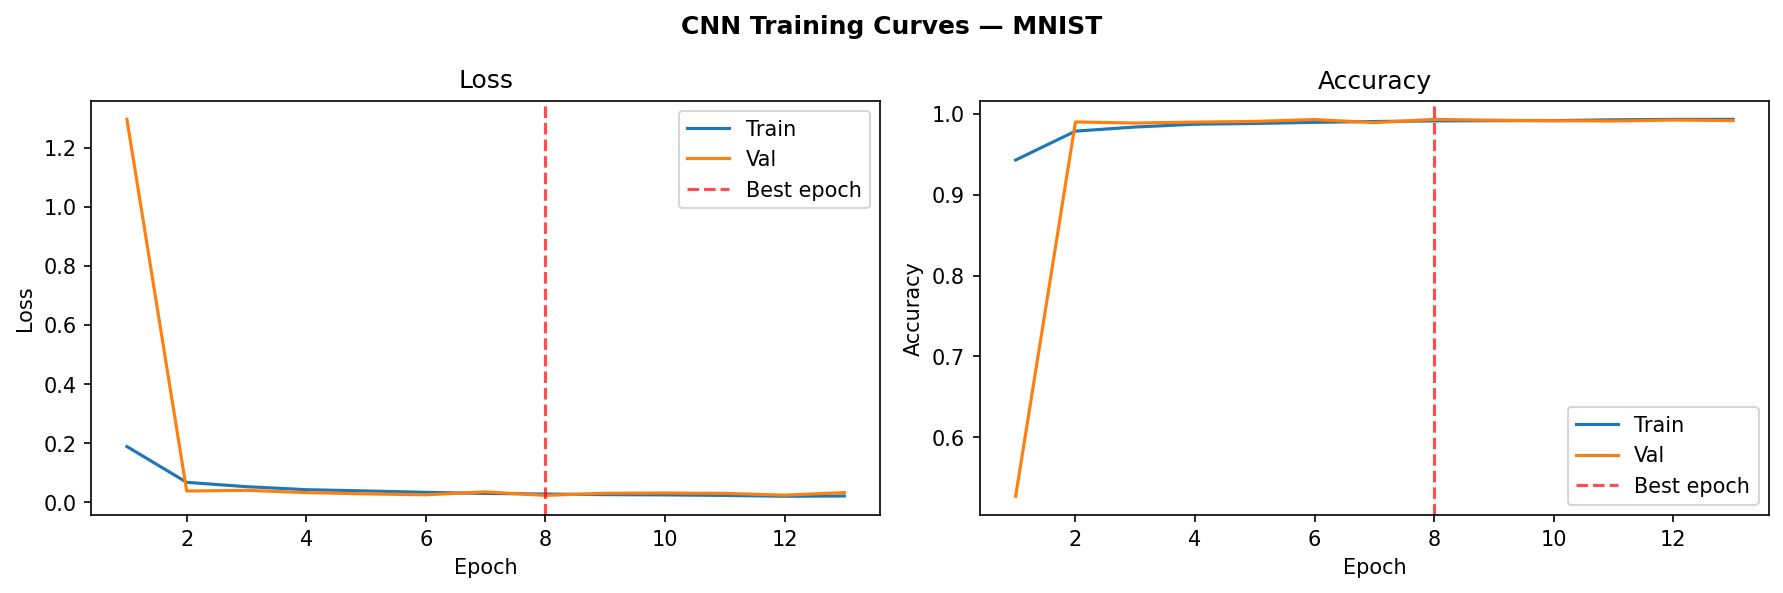
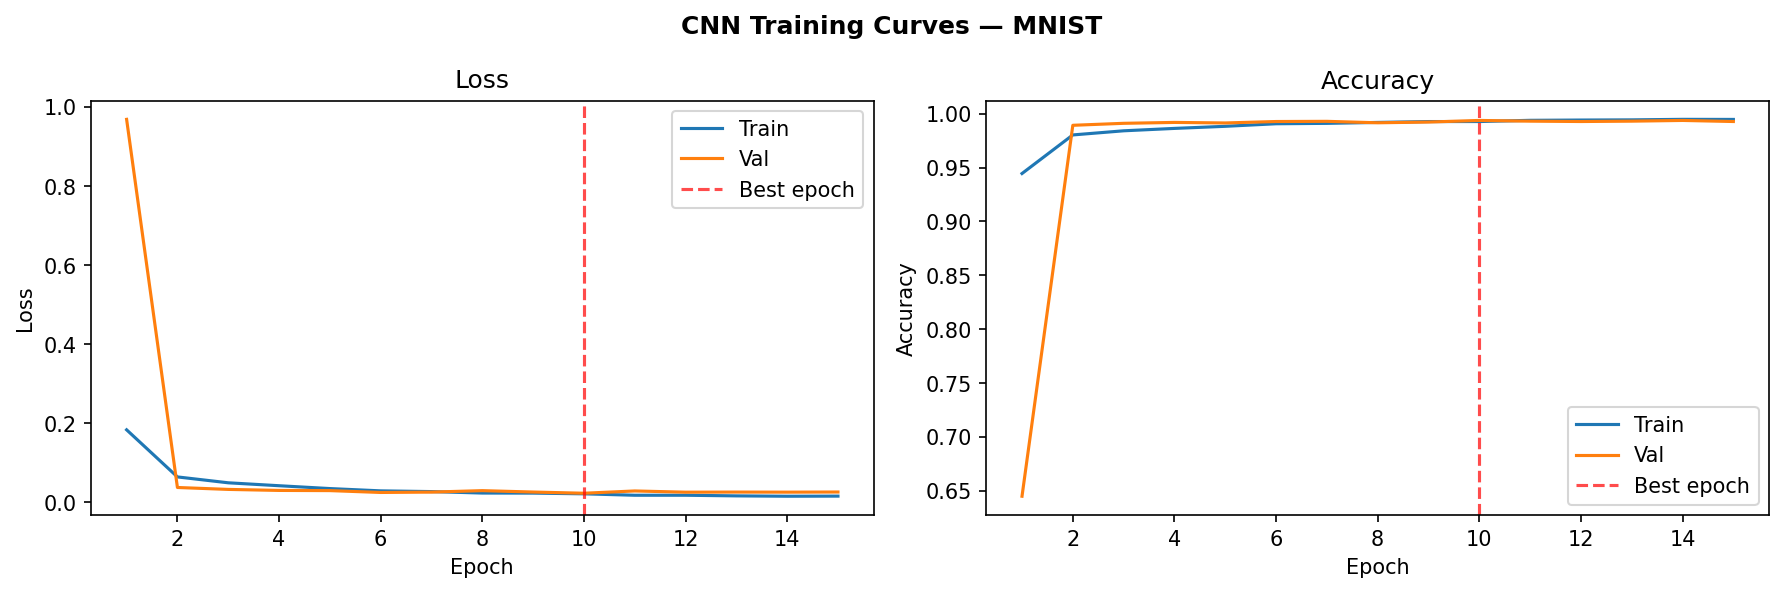
Retrain on CPU — 99.35% accuracy, portable BatchNorm statistics

diff --git a/README.md b/README.md
@@ -150,9 +150,9 @@ The full preprocessing pipeline (which must exactly mirror training):
 
 | Metric | Value |
 |---|---|
-| Test accuracy | **99.30%** |
-| Test loss | 0.0199 |
-| Best epoch | 8 / 20 (EarlyStopping) |
+| Test accuracy | **99.35%** |
+| Test loss | 0.0210 |
+| Best epoch | 10 / 20 (EarlyStopping) |
 | Baseline (random) | 10.0% |
 
 **Per-class F1 scores** — all digits above 98.9%:
